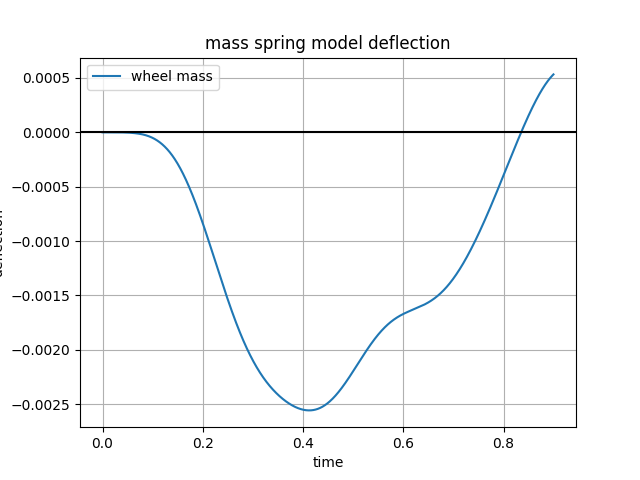
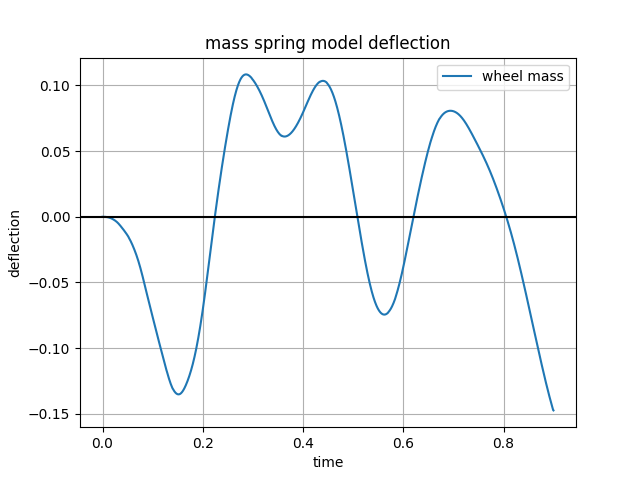
commit

diff --git a/train model 1.py b/train model 1.py
@@ -12,6 +12,7 @@ num_el = 50  # number of chose elements
 L_elm = L / num_el  # length of the elements
 #place_of_damage = np.linspace(5,14, 10)
 place_of_damage = np.linspace(25,34, 10)  # which element is damaged
+#place_of_damage = np.linspace(40,49,10)
 num_nod = num_el + 1  # number of nodes in the model
 damage_off_on = False  # setting the damage off and on
 mw = 5750 # weight of the wheel
@@ -19,7 +20,7 @@ mv = 24000  # weight of the train
 p = mw * 9.81  # force of the train
 damping_ratio = 0.025  # damping ratio for this beam
 beta, gamma = 0.25, 0.5  # Newmark's beta method
-kv = 1595*10**3  # spring inbetween wheel and train
+kv = 1.1*10**9  # spring inbetween wheel and train
 kb = 4*10**9  # bedding constant
 cv = 85*10**3
 Mt = np.array([[mw,0],[0,mv]])
@@ -50,7 +51,7 @@ gc_dam = s1_dam*gm + s2_dam*gk_dam
 
 #making the place vector
 f_pos_1 = 0
-t = np.linspace(0,1, 2001)
+t = np.linspace(0,1, 20001)
 v = 100/3.6
 f_pos = t*v + f_pos_1
 dt = t[1] - t[0]
@@ -139,19 +140,51 @@ for time_step in range(len(f_pos)):
     zlist[0,time_step+1] = z
     zlist[1,time_step+1] = z_dot
     zlist[2,time_step+1] = z_dot_dot
-    midu.append(z-z_int)
-    print(time_step)
+    midu.append(z_dot_dot)
     t_new.append(t[time_step])
+    print(time_step)
+
+for time_step in range(len(f_pos)):
+    if f_pos[time_step] >= L:
+        break
+    else:
+        nf = int(element_number[time_step + 1])
+        if nf == num_el:
+            nf -= 1
+        N_vec = np.zeros(num_nod * 2)
+        N_vec[nf * 2:nf * 2 + 4] = N_matrix[time_step + 1]
+        N_vec = np.delete(N_vec, [0, -2])
+        # initial penetration
+        fc_dam = kv*abs(z_dam - N_vec@u_dam)
+        fc_n_dam = np.inf
+        while abs(fc_dam-fc_n_dam) > tol:
+            fc_n_dam = fc_dam
+            F_vec_dam = -1 * N_vec * fc_n_dam
+            u_dam, u_dot_dam, u_dot_dot_dam = mstdef.newmark(gm, gc_dam, gk_dam, F_vec_dam, gamma, beta, dt, udamlist[:,time_step], udamdotlist[:,time_step], udamdotdotlist[:,time_step])# do not update u, u_dot, u_dot_dot each time iteration
+            z_dot_dot_dam = ((-mw*9.81+fc_n_dam)/(mw))
+            z_dot_dam = zdamlist[1,time_step] + dt/2 * (zdamlist[2,time_step] + z_dot_dot_dam)
+            z_dam = zdamlist[0,time_step] + dt/2 * (zdamlist[1,time_step] + z_dot_dam)
+            fc_dam = kv * abs(z_dam - N_vec@u_dam)
+    udamlist[:,time_step+1] = u_dam
+    udamdotlist[:,time_step+1] = u_dot_dam
+    udamdotdotlist[:,time_step+1] = u_dot_dot_dam
+    zdamlist[0,time_step+1] = z_dam
+    zdamlist[1,time_step+1] = z_dot_dam
+    zdamlist[2,time_step+1] = z_dot_dot_dam
+    midu_dam.append(z_dot_dot_dam)
+    print(time_step)
 
 
 plt.figure()
-plt.title("mass spring model deflection")
+plt.title("mass spring model accelerations")
 plt.plot(t_new, midu, label = 'wheel mass')
-#plt.plot(t_new, midu_dam, label = 'damage = 0.6')
+plt.plot(t_new, midu_dam, label = 'damage = 0.6')
 plt.axhline(0, color = 'k')
 plt.legend()
 plt.grid()
-plt.xlabel('time')
-plt.ylabel('deflection')
-plt.savefig('mass spring model without damage mass deflection ')
-print('done')
+plt.xlabel('time [s]')
+plt.ylabel('acceleration [m/s^2)')
+plt.savefig('mass spring model accelaration damage = 0,6 middle bigger spring constant ')
+
+
+

diff --git a/FEM model.py b/FEM model.py
@@ -1,18 +1,18 @@
 import pandas as pd
-
 import mstdef
 import numpy as np
 import scipy as sc
+import matplotlib.pyplot as plt
 
-L = 30  # [m]
-E = 29.43 * 10 ** 9  # e-modulus [N/m^2]
+L = 25  # [m]
+E = 2.87 * 10 ** 9  # e-modulus [N/m^2]
 I = 2.9
 A = 1  # cross section [m^2]
-m = 36056  # self weight of the beam
-dam_var = 0.8  # how much the EI will decrease due to damage
-num_el = 6  # number of chose elements
+m = 2303  # self weight of the beam
+dam_var = 0.6  # how much the EI will decrease due to damage
+num_el = 50  # number of chose elements
 L_elm = L / num_el  # length of the elements
-place_of_damage = [2,3] # which element is damaged
+place_of_damage = np.linspace(25,34, 10) # which element is damaged
 num_nod = num_el + 1  # number of nodes in the model
 damage_off_on = True  # setting the damage off and on
 print(place_of_damage)
@@ -36,7 +36,19 @@ K_dam = np.delete(K_dam, [0,-2], 1)
 #making modes
 eig_val, eig_vec = sc.linalg.eigh(K,M)
 eig_val_dam, eig_vec_dam = sc.linalg.eigh(K_dam,M)
-print(eig_val[0])
+mode1 = eig_vec[:,2].reshape(num_nod - 1 ,2)[:,1]
+mode1 = mode1[:-1]
+u1 = np.concatenate([[0], mode1, [0]])
+mode1_dam = eig_vec_dam[:,2].reshape(num_nod - 1 ,2)[:,1]
+mode1_dam = mode1_dam[:-1]
+u1_dam = np.concatenate([[0], mode1_dam, [0]])
 #making plots
-mstdef.makeplots_ofbeam(3, eig_vec, num_nod, L, False)
-mstdef.makeplots_ofbeam(3, eig_vec_dam, num_nod, L, True)
+x = np.linspace(0,L,num_nod)
+plt.plot(x, u1, label = 'undamaged')
+plt.plot(x, u1_dam, label = 'damaged')
+plt.title(f'third mode of the bridge')
+plt.axhline(0, color = 'k')
+plt.grid()
+plt.legend()
+plt.savefig('undamaged and damaged mode 3')
+print(np.sqrt(eig_val_dam[0]),np.sqrt(eig_val_dam[1]),np.sqrt(eig_val_dam[2]))

diff --git a/moving force model.py b/moving force model.py
@@ -7,7 +7,7 @@ E = 2.87 * 10 ** 9  # e-modulus [N/m^2]
 I = 2.9
 A = 1  # cross section [m^2]
 m = 2303  # self weight of the beam
-dam_var = 0.6  # how much the EI will decrease due to damage
+dam_var = 0.4  # how much the EI will decrease due to damage
 num_el = 50  # number of chose elements
 L_elm = L / num_el  # length of the elements
 #place_of_damage = np.linspace(5,14, 10)

diff --git a/moving mass model.py b/moving mass model.py
@@ -169,3 +169,5 @@ plt.savefig('mass damping model with 200m bridge')
 
 end = timer()
 print(end - start)
+
+
